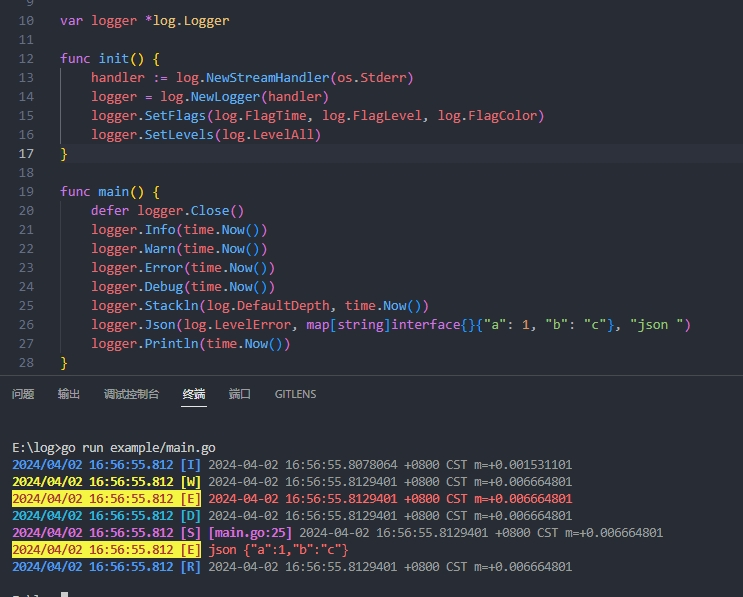
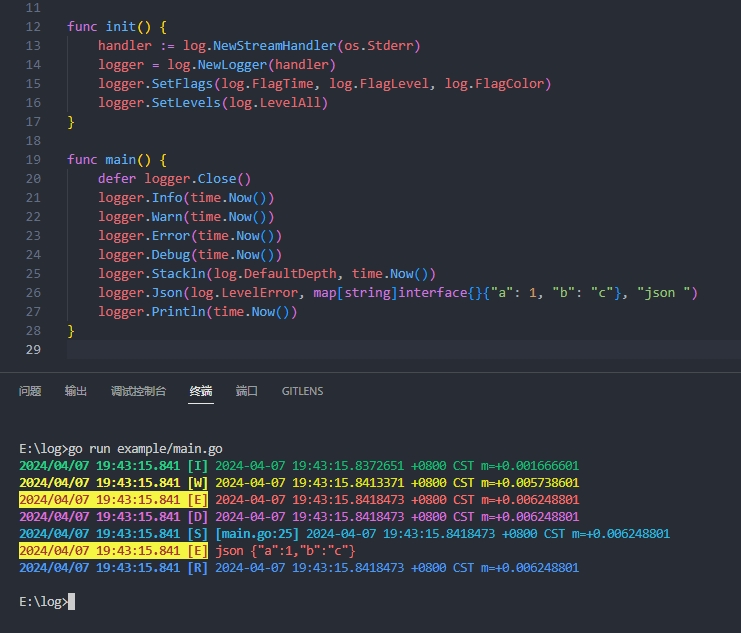
fix: colorful

diff --git a/ilog.go b/ilog.go
@@ -55,14 +55,14 @@ var (
 )
 
 var colors = map[Level][2]func(a ...any) string{
-	LevelInfo:  {ANSIColor("", "#0b64ff", true, false), ANSIColor("", "#636363", false, false)},
-	LevelWarn:  {ANSIColor("", "#edd200", true, false), ANSIColor("", "#636363", false, false)},
+	LevelInfo:  {ANSIColor("", "#008000", true, false), ANSIColor("", "#226322", false, false)},
+	LevelWarn:  {ANSIColor("", "#dbb400", true, false), ANSIColor("", "#c3bb01", false, false)},
 	LevelError: {ANSIColor("#f9ff83", "#f00", true, false), ANSIColor("", "#f00", false, false)},
-	LevelStack: {ANSIColor("", "#ed1ffd", true, false), ANSIColor("", "#636363", false, false)},
-	LevelDebug: {ANSIColor("", "#00e5ff", true, false), ANSIColor("", "#636363", false, false)},
-	LevelFatal: {ANSIColor("#f9ff83", "#f00", true, false), ANSIColor("", "#f00", false, false)},
-	LevelPanic: {ANSIColor("#f9ff83", "#f00", true, false), ANSIColor("", "#f00", false, false)},
-	LevelPrint: {ANSIColor("", "#31b5ff", true, false), ANSIColor("", "#636363", false, false)},
+	LevelStack: {ANSIColor("", "#008fb7", true, false), ANSIColor("", "#2fd2ff", false, false)},
+	LevelDebug: {ANSIColor("", "#7800b9", true, false), ANSIColor("", "#c565ff", false, false)},
+	LevelFatal: {ANSIColor("#f00", "#fff", true, false), ANSIColor("", "#f00", false, false)},
+	LevelPanic: {ANSIColor("#f00", "#f00", true, false), ANSIColor("", "#f00", false, false)},
+	LevelPrint: {ANSIColor("", "#0046ff", true, false), ANSIColor("", "#4175ff", false, false)},
 }
 
 type ILogger interface {
